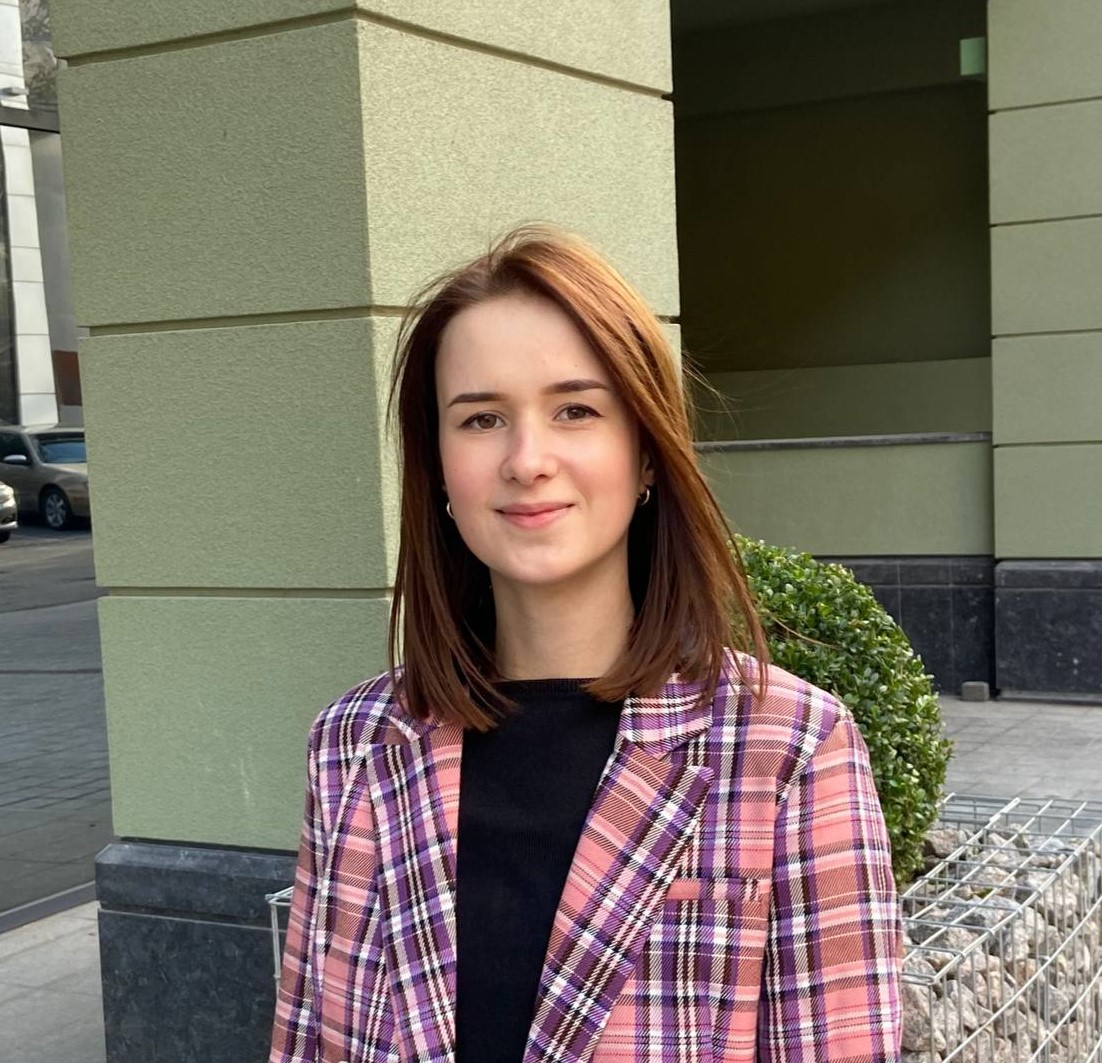
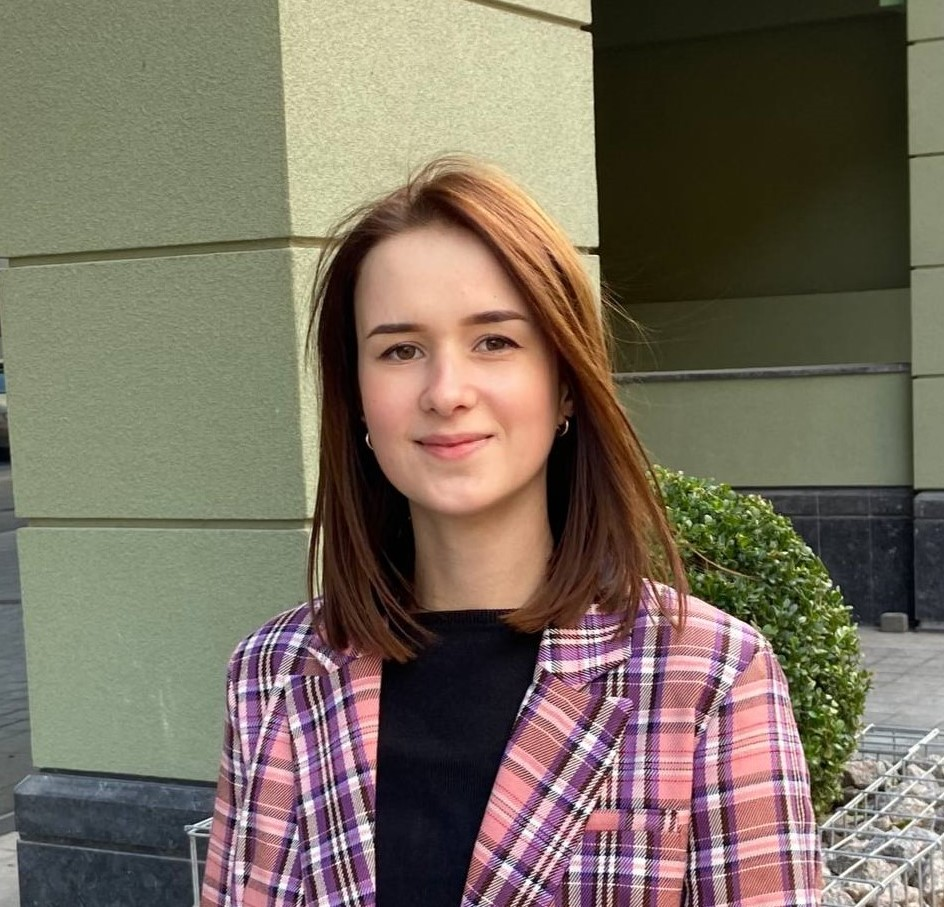
Update intro block

diff --git a/index.html b/index.html
@@ -20,6 +20,28 @@
 
                     <a href="" rel="author" class="contact-info__item">
                         <div class="contact-info__item-icon-wrapper">
+                            <svg class="contact-info__item-icon" xmlns="http://www.w3.org/2000/svg" viewBox="0 0 448 512">
+                                <path 
+                                d="M96 32V64H48C21.5 64 0 85.5 0 112v48H448V112c0-26.5-21.5-48-48-48H352V32c0-17.7-14.3-32-32-32s-32 14.3-32 32V64H160V32c0-17.7-14.3-32-32-32S96 14.3 96 32zM448 192H0V464c0 26.5 21.5 48 48 48H400c26.5 0 48-21.5 48-48V192z"/>
+                            </svg>
+                          </svg>
+                        </div>
+                        <span>20 years</span>
+                    </a>
+
+                    <a href="" rel="author" class="contact-info__item">
+                        <div class="contact-info__item-icon-wrapper">
+                            <svg class="contact-info__item-icon" xmlns="http://www.w3.org/2000/svg" viewBox="0 0 640 512">
+                            <path 
+                            d="M320 32c-8.1 0-16.1 1.4-23.7 4.1L15.8 137.4C6.3 140.9 0 149.9 0 160s6.3 19.1 15.8 22.6l57.9 20.9C57.3 229.3 48 259.8 48 291.9v28.1c0 28.4-10.8 57.7-22.3 80.8c-6.5 13-13.9 25.8-22.5 37.6C0 442.7-.9 448.3 .9 453.4s6 8.9 11.2 10.2l64 16c4.2 1.1 8.7 .3 12.4-2s6.3-6.1 7.1-10.4c8.6-42.8 4.3-81.2-2.1-108.7C90.3 344.3 86 329.8 80 316.5V291.9c0-30.2 10.2-58.7 27.9-81.5c12.9-15.5 29.6-28 49.2-35.7l157-61.7c8.2-3.2 17.5 .8 20.7 9s-.8 17.5-9 20.7l-157 61.7c-12.4 4.9-23.3 12.4-32.2 21.6l159.6 57.6c7.6 2.7 15.6 4.1 23.7 4.1s16.1-1.4 23.7-4.1L624.2 182.6c9.5-3.4 15.8-12.5 15.8-22.6s-6.3-19.1-15.8-22.6L343.7 36.1C336.1 33.4 328.1 32 320 32zM128 408c0 35.3 86 72 192 72s192-36.7 192-72L496.7 262.6 354.5 314c-11.1 4-22.8 6-34.5 6s-23.5-2-34.5-6L143.3 262.6 128 408z"/>
+                            </svg>
+                          </svg>
+                        </div>
+                        <span>NTU DP</span>
+                    </a>
+
+                    <a href="" rel="author" class="contact-info__item">
+                        <div class="contact-info__item-icon-wrapper">
                           <svg class="contact-info__item-icon" xmlns="http://www.w3.org/2000/svg" viewBox="0 0 384 512">
                             <path
                               d="M172.268 501.67C26.97 291.031 0 269.413 0 192 0 85.961 85.961 0 192 0s192 85.961 192 192c0 77.413-26.97 99.031-172.268 309.67-9.535 13.774-29.93 13.773-39.464 0zM192 272c44.183 0 80-35.817 80-80s-35.817-80-80-80-80 35.817-80 80 35.817 80 80 80z">
@@ -28,26 +50,46 @@
                         </div>
                         <span>Dnipro, Ukraine</span>
                       </a>
-
+                    
                 </div>
-              
+             
                 <div class="contact-info__block contact-info__block--center">
                   <img class="contact-info__avatar" src="assets/avatar.png" alt="Avatar">
                 </div>
       
                 <div class="contact-info__block">
-
-                    <a href="https://ua.linkedin.com/company/binary-studio_241166" rel="author" class="contact-info__item">
+                    <a href="" rel="author" class="contact-info__item">
                         <div class="contact-info__item-icon-wrapper">
-                          <svg class="contact-info__item-icon" xmlns="http://www.w3.org/2000/svg" viewBox="0 0 448 512">
-                            <path
-                              d="M416 32H31.9C14.3 32 0 46.5 0 64.3v383.4C0 465.5 14.3 480 31.9 480H416c17.6 0 32-14.5 32-32.3V64.3c0-17.8-14.4-32.3-32-32.3zM135.4 416H69V202.2h66.5V416zm-33.2-243c-21.3 0-38.5-17.3-38.5-38.5S80.9 96 102.2 96c21.2 0 38.5 17.3 38.5 38.5 0 21.3-17.2 38.5-38.5 38.5zm282.1 243h-66.4V312c0-24.8-.5-56.7-34.5-56.7-34.6 0-39.9 27-39.9 54.9V416h-66.4V202.2h63.7v29.2h.9c8.9-16.8 30.6-34.5 62.9-34.5 67.2 0 79.7 44.3 79.7 101.9V416z">
-                            </path>
+                            <svg class="contact-info__item-icon" xmlns="http://www.w3.org/2000/svg" viewBox="0 0 496 512">
+                                <path 
+                                d="M248,8C111.033,8,0,119.033,0,256S111.033,504,248,504,496,392.967,496,256,384.967,8,248,8ZM362.952,176.66c-3.732,39.215-19.881,134.378-28.1,178.3-3.476,18.584-10.322,24.816-16.948,25.425-14.4,1.326-25.338-9.517-39.287-18.661-21.827-14.308-34.158-23.215-55.346-37.177-24.485-16.135-8.612-25,5.342-39.5,3.652-3.793,67.107-61.51,68.335-66.746.153-.655.3-3.1-1.154-4.384s-3.59-.849-5.135-.5q-3.283.746-104.608,69.142-14.845,10.194-26.894,9.934c-8.855-.191-25.888-5.006-38.551-9.123-15.531-5.048-27.875-7.717-26.8-16.291q.84-6.7,18.45-13.7,108.446-47.248,144.628-62.3c68.872-28.647,83.183-33.623,92.511-33.789,2.052-.034,6.639.474,9.61,2.885a10.452,10.452,0,0,1,3.53,6.716A43.765,43.765,0,0,1,362.952,176.66Z"/>
+                            </svg>
                           </svg>
                         </div>
-                        <span>binary-studio</span>
-                      </a>
+                        <span>@daria_kostiuk</span>
+                    </a>
 
+                    <a href="" rel="author" class="contact-info__item">
+                        <div class="contact-info__item-icon-wrapper">
+                            <svg class="contact-info__item-icon" xmlns="http://www.w3.org/2000/svg" viewBox="0 0 384 512">
+                               <path 
+                               d="M80 0C44.7 0 16 28.7 16 64V448c0 35.3 28.7 64 64 64H304c35.3 0 64-28.7 64-64V64c0-35.3-28.7-64-64-64H80zm80 432h64c8.8 0 16 7.2 16 16s-7.2 16-16 16H160c-8.8 0-16-7.2-16-16s7.2-16 16-16z"/>
+                            </svg>
+                          </svg>
+                        </div>
+                        <span>+38 (099) 405 07 79</span>
+                    </a>
+
+                    <a href="" rel="author" class="contact-info__item">
+                        <div class="contact-info__item-icon-wrapper">
+                            <svg class="contact-info__item-icon" xmlns="http://www.w3.org/2000/svg" viewBox="0 0 512 512">
+                                <path 
+                                d="M48 64C21.5 64 0 85.5 0 112c0 15.1 7.1 29.3 19.2 38.4L236.8 313.6c11.4 8.5 27 8.5 38.4 0L492.8 150.4c12.1-9.1 19.2-23.3 19.2-38.4c0-26.5-21.5-48-48-48H48zM0 176V384c0 35.3 28.7 64 64 64H448c35.3 0 64-28.7 64-64V176L294.4 339.2c-22.8 17.1-54 17.1-76.8 0L0 176z"/>
+                            </svg>
+                          </svg>
+                        </div>
+                        <span>dkostuk09@gmail.com</span>
+                    </a>            
                 </div>
               </div>
             </div>

diff --git a/styles.css b/styles.css
@@ -12,8 +12,8 @@ body {
     --secondary-text-color: #5c5c62;
     --durability-text-color: #6a737d9c;
     --icon-color: #6a737d;
-    --border-color: #ff9a0045;
-    --text-decoration-color: #ff9a00;
+    --border-color: #edb7ea;
+    --text-decoration-color: #c84cc1;
 }
 
 .container {
@@ -124,12 +124,13 @@ body {
   }
 
   .contact-info__avatar {
-      border-radius: 50%;
-      width: 200px;
-      height: 200px;
-      object-fit: cover;
-      border: 3px solid;
+      
+      width: 150px;
+      height: 150px;
+      object-fit: contain;
+      
       border-color: var(--text-decoration-color);
+      margin-left: 55px;
   }
 
   .intro {
